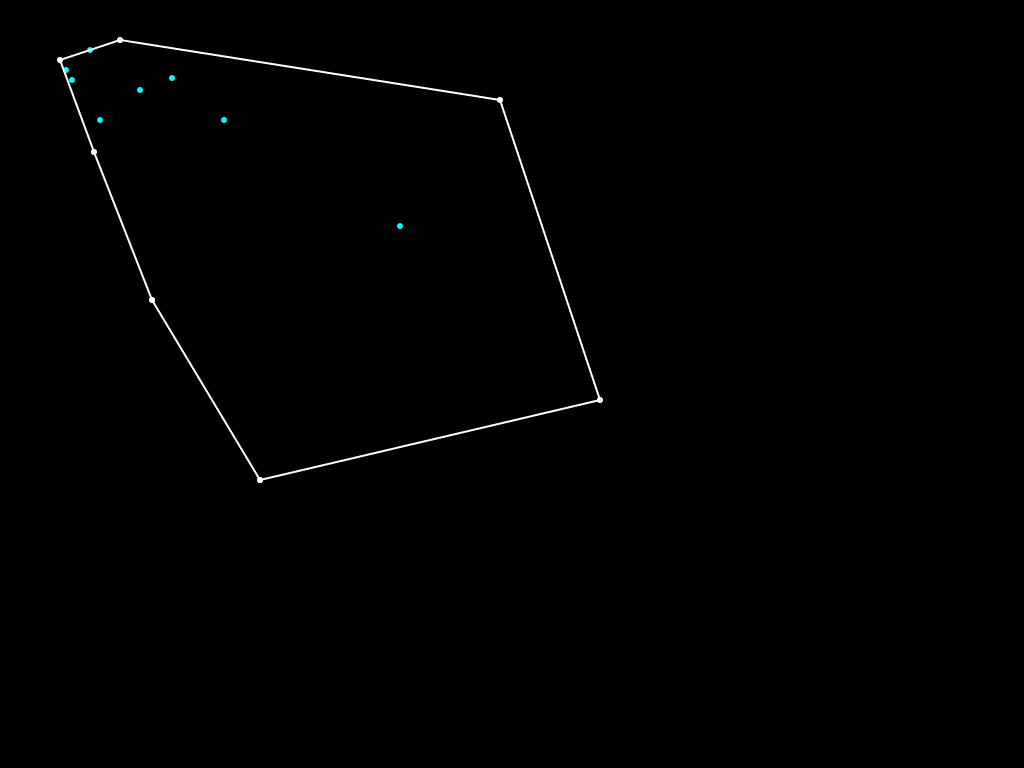
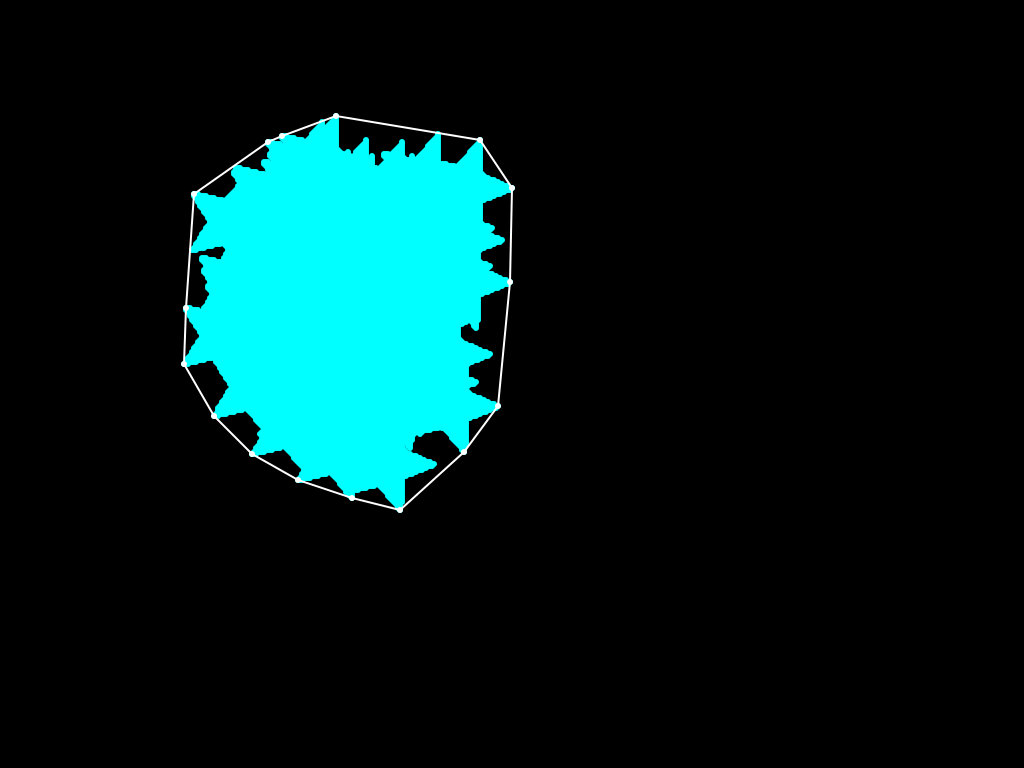
feat(tarea 14): Add suport for pgm image

diff --git a/Homeworks/tarea 14/pgm.cpp b/Homeworks/tarea 14/pgm.cpp
@@ -1,0 +1,129 @@
+/**
+    ANSI C standard: c11
+    main.c
+    Purpose: Read and write images type pgm P2
+
+    @author Esaú Peralta
+    @email esau.opr@gmail.com
+*/
+
+#include <cstdio>
+#include <cstdlib>
+#include "pgm.hpp"
+
+
+/* Reade the img file */
+pgmImage read_pgmImage(const char * file_name) {
+    pgmImage img;
+    img.comment = img.format = NULL;
+    img.max_gray_value = img.width = img.height = 0;
+    char *comment = NULL;
+    size_t str_buf_size = 0;
+    ssize_t str_len = 0;
+
+    FILE * fp = fopen(file_name, "rb");
+    if (fp == NULL) {
+        perror(file_name);
+        return img;
+    }
+
+    // Read first line containing the image format
+    str_len = getline(&img.format, &str_buf_size, fp);
+    if ( str_len < 3 || img.format[0] != 'P' || (img.format[1] != '2' && img.format[1] != '5')) {
+        puts("Invalid format header");
+        fclose(fp);
+        return img;
+    }
+
+    // Read the comment if exists
+    str_len = getline(&comment, &str_buf_size, fp);
+    // Exists a comment
+    if(str_len && comment[0] == '#') {
+        img.comment = comment;
+        // Read the img dimensions
+        fscanf(fp, "%d %d\n", &img.width, &img.height);
+    } else {
+        // 'commment' contains the first row with the img pixels
+        sscanf(comment, "%d %d\n", &img.width, &img.height);
+        free(comment);
+    }
+
+    fscanf(fp, "%d\n", (int *)&img.max_gray_value);
+
+    // Allocate memory to read the img content
+
+    // Read the pixels values
+    if (img.format[1] == '2') {
+        // Read the img pixels for magic code P2
+        int tmp;
+        for (int i = 0; i < img.height; i++) {
+            vector<unsigned char> row;
+            for (int j = 0; j < img.width; j++) {
+                fscanf(fp, "%d", &tmp);
+                row.push_back((unsigned char)tmp);
+            }
+            img.content.push_back(row);
+        }
+    } else {
+        // Read the img pixels for magic code P5
+        unsigned char tmp;
+        for (int i = 0; i < img.height; i++) {
+            vector<unsigned char> row;
+            for (int j = 0; j < img.width; j++) {
+                fscanf(fp, "%c", &tmp);
+                row.push_back(tmp);
+            }
+            img.content.push_back(row);
+        }
+    }
+
+    fclose(fp);
+
+    return img;
+}
+
+/* Save a pgmImage struct into .pgm file*/
+void write_pgmImage(pgmImage img, const char * file_name) {
+    FILE * fp = fopen(file_name, "w+");
+    if (fp == NULL) {
+        perror(file_name);
+        return;
+    }
+
+    fprintf(fp, "%s", img.format);
+
+    if (img.comment != NULL) {
+        fprintf(fp, "%s", img.comment);
+    }
+
+    fprintf(fp, "%d %d\n", img.width, img.height);
+    fprintf(fp, "%d\n", img.max_gray_value);
+
+    for (int i = 0; i < img.height; i++) {
+        for (int j = 0; j < img.width; j++) {
+            if (img.format[1] == '2') {
+                fprintf(fp, "%d ", img.content[i][j]);
+            } else {
+                fprintf(fp, "%c", img.content[i][j]);
+            }
+        }
+        if (img.format[1] == '2') {
+            fprintf(fp, "\n");
+        }
+    }
+
+    fclose(fp);
+}
+
+/* Liberate the memory allocated for pgm image */
+void free_pgmImage(pgmImage * img) {
+    if (img->format != NULL) {
+        free(img->format);
+        img->format = NULL;
+    }
+
+    if (img->comment != NULL) {
+        free(img->comment);
+        img->comment = NULL;
+    }
+}

diff --git a/Homeworks/tarea 14/main.cpp b/Homeworks/tarea 14/main.cpp
@@ -1,10 +1,12 @@
 #include <iostream>
 #include <fstream>
+#include <ctime>
 #include "convex_hull.hpp"
+#include "pgm.hpp"
 
 using namespace std;
 
-
+/* Return a vector of Points from a file */
 vector<Point> read_points(string file_name) {
     ifstream f_in(file_name);
     if (!f_in.is_open()) {
@@ -26,25 +28,67 @@ vector<Point> read_points(string file_name) {
     return points;
 }
 
+/* Returns a vector from a binary image format pgm */
+vector<Point> read_image(const char * file_name) {
+    pgmImage img = read_pgmImage(file_name);
+
+    vector<Point> points;
+
+    for (int i = 0; i < img.height; i++) {
+        for (int j = 0; j < img.width; j++) {
+            if (img.content[i][j] != 0) {
+                Point p(i, j);
+                points.push_back(p);
+            }
+        }
+    }
+
+    return points;
+}
+
+
 int main(int argc, char * argv[]) {
-    if (argc < 1) {
+    if (argc < 2) {
         cout << "Missingg arguments: [file name]" << endl;
         exit(EXIT_FAILURE);
     }
 
-    vector<Point> points = read_points(argv[1]);
-    // ConvexHull::_print(points);
+    vector<Point> points;
 
-    cout << "Jarvis's march";
+    string option = argv[1];
+    if (option == "-p") {
+        points = read_points(argv[2]);
+    } else if (option == "-i") {
+        points = read_image(argv[2]);
+    } else {
+        cout << "Invalid option" << endl;
+    }
+
+    unsigned t_start, t_end;
+    double time;
+
+    cout << "Jarvis's march" << endl;
+    t_start=clock();
     vector<Point> result_points = ConvexHull::jarvis_march(points, false);
+    t_end = clock();
+    time = (double(t_end - t_start) / CLOCKS_PER_SEC);
+    cout << "Time: " << time << endl;
     ConvexHull::_print(result_points);
 
-    cout << "Graham's Scan";
+    cout << "Graham's Scan" << endl;
+    t_start=clock();
     result_points = ConvexHull::andrew_monotone_chain(points, false);
+    t_end = clock();
+    time = (double(t_end - t_start) / CLOCKS_PER_SEC);
+    cout << "Time: " << time << endl;
     ConvexHull::_print(result_points);
 
-    cout << "Andrew's Monotone Chain";
+    cout << "Andrew's Monotone Chain" << endl;
+    t_start=clock();
     result_points = ConvexHull::andrew_monotone_chain(points, false);
+    t_end = clock();
+    time = (double(t_end - t_start) / CLOCKS_PER_SEC);
+    cout << "Time: " << time << endl;
     ConvexHull::_print(result_points);
 
     ConvexHull::draw(points, result_points, 2.0);

diff --git a/Homeworks/tarea 14/pgm.hpp b/Homeworks/tarea 14/pgm.hpp
@@ -1,0 +1,30 @@
+/**
+    ANSI C standard: c11
+    main.c
+    Purpose: Prototype to read and write images type pgm P2
+
+    @author Esaú Peralta
+    @email esau.opr@gmail.com
+*/
+
+#include <vector>
+
+using namespace std;
+
+typedef struct pgmStruct {
+    vector<vector<unsigned char> > content;
+    char * comment;
+    char * format;
+    int height;
+    int width;
+    unsigned char max_gray_value;
+
+} pgmImage;
+
+
+/* Reade the img file */
+pgmImage read_pgmImage(const char * file_name);
+/* Save a pgmImage struct into .pgm file*/
+void write_pgmImage(pgmImage img, const char * file_name);
+/* Liberate the memory allocated for pgm image */
+void free_pgmImage(pgmImage * img);

diff --git a/Homeworks/tarea 14/convex_hull.cpp b/Homeworks/tarea 14/convex_hull.cpp
@@ -25,7 +25,6 @@ void ConvexHull::_print(vector<Point> points) {
 
 /* Returns the value for make the crooss product for vectors ab ac */
 double ConvexHull::_cross(Point a, Point b, Point c) {
-    // return (a.get_y() - c.get_y()) * (a.get_x() - b.get_x()) - (a.get_y() - b.get_y()) * (a.get_x() - c.get_x());
     return (b.get_x() - a.get_x()) * (c.get_y() - a.get_y()) - (b.get_y() - a.get_y()) * (c.get_x() - a.get_x());
 }
 
